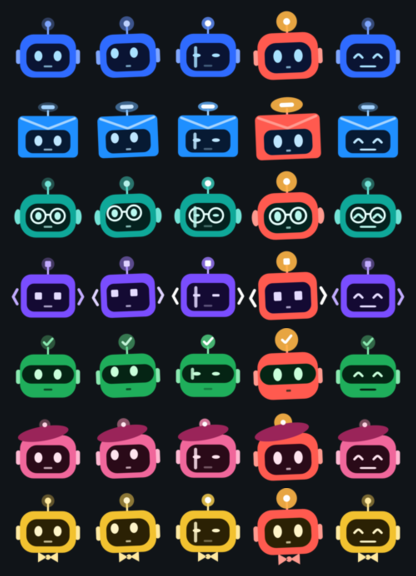
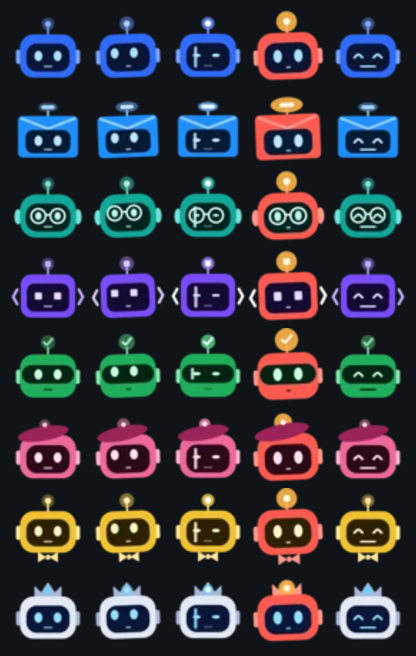
M9.5: the Orchestrator, a main bot that coordinates the team (#54)
The Orchestrator (M9.5, D-037): main bot that plans and coordinates;
discuss tool; verdict hand-back; default in app and panel; new face.

Checks: fmt, clippy (native + wasm), cargo test --workspace
(orchestrator seed/order test), flutter analyze + test, markdownlint.
End to end on the laptop: orchestrator called discuss,
researcher+checker deliberated, verdict returned to the orchestrator
thread and was relayed.

🤖 Generated with [Claude Code](https://claude.com/claude-code)

diff --git a/bridge/orphusbot-bridge.ts b/bridge/orphusbot-bridge.ts
@@ -41,6 +41,8 @@ export const GATE_TITLE = "orphusbot-gate";
 export const TAKEOVER_TITLE = "orphusbot-takeover";
 /** Title of the dialog that hands a teammate a task (DESIGN §5.3). */
 export const ASK_TITLE = "orphusbot-ask";
+/** Title of the dialog that starts a discussion among teammates (DESIGN §11.4). */
+export const DISCUSS_TITLE = "orphusbot-discuss";
 
 const computer = process.env.ORPHUSBOT_COMPUTER;
 const runtime = process.env.ORPHUSBOT_RUNTIME ?? "podman";
@@ -58,7 +60,7 @@ const HELPER_TOOLS = ["subagent", "fleet", "roundtable"];
 // Plus `mcp`, Orphus's MCP gateway, when the owner granted the bot a connection:
 // it only talks to those servers, so it is safe to run outside the computer.
 const COMPUTER_TOOLS = [
-  "read", "write", "edit", "bash", "request_takeover", "share_file", "ask_bot",
+  "read", "write", "edit", "bash", "request_takeover", "share_file", "ask_bot", "discuss",
   ...(process.env.ORPHUSBOT_MCP ? ["mcp"] : []),
   // Fleets: helpers whose calls come back through this gate and into the computer.
   ...(process.env.ORPHUSBOT_HELPERS_GATED === "1" ? HELPER_TOOLS : []),
@@ -266,6 +268,26 @@ export default function (pi: ExtensionAPI) {
     async execute(_id, params, _signal, _onUpdate, ctx) {
       const ui = dialogs(ctx as unknown as { mode: string; ui: Dialogs }) ?? ctx.ui;
       const answer = String((await ui.input(ASK_TITLE, JSON.stringify({ bot: params.bot, task: params.task }))) ?? "error:no answer");
+      if (answer.startsWith("error:")) throw new Error(answer.slice("error:".length));
+      return { content: [{ type: "text", text: answer.replace(/^ok:/, "") }], details: {} };
+    },
+  });
+
+  // A discussion among teammates: the server runs it; the verdict comes back as a message.
+  pi.registerTool({
+    name: "discuss",
+    label: "Start a discussion",
+    description:
+      "Ask 2 to 6 teammates to argue a question out in a room, each on its own model, seeing the others only as a short digest. A chair writes the verdict (decision, reasons, strongest dissent), which comes back to you as a new message when they finish, so don't wait for it. Use it for decisions with real trade-offs.",
+    promptSnippet: "Have teammates deliberate a decision",
+    parameters: Type.Object({
+      question: Type.String({ description: "The question, with the context they need" }),
+      bots: Type.Array(Type.String(), { description: "2 to 6 teammates' short names, chair first, such as researcher" }),
+      rounds: Type.Optional(Type.Number({ description: "1 to 4 rounds; 2 if left out" })),
+    }),
+    async execute(_id, params, _signal, _onUpdate, ctx) {
+      const ui = dialogs(ctx as unknown as { mode: string; ui: Dialogs }) ?? ctx.ui;
+      const answer = String((await ui.input(DISCUSS_TITLE, JSON.stringify(params))) ?? "error:no answer");
       if (answer.startsWith("error:")) throw new Error(answer.slice("error:".length));
       return { content: [{ type: "text", text: answer.replace(/^ok:/, "") }], details: {} };
     },

diff --git a/apps/orphusbot_app/lib/chat.dart b/apps/orphusbot_app/lib/chat.dart
@@ -30,7 +30,8 @@ class ChatScreen extends StatefulWidget {
 class _ChatScreenState extends State<ChatScreen> {
   List<Map<String, dynamic>> bots = [];
   final threads = <String, t.ThreadView>{};
-  String chosen = 'inbox';
+  // The Orchestrator is the main bot; older servers start on the first bot listed.
+  String chosen = 'orchestrator';
   String? problem;
   StreamSubscription<Map<String, dynamic>>? sub;
   final composer = TextEditingController();
@@ -48,12 +49,15 @@ class _ChatScreenState extends State<ChatScreen> {
 
   Future<void> _loadBots() async {
     final list = await widget.api.get('/api/bots') as List<dynamic>;
-    setState(
-      () => bots = list
+    setState(() {
+      bots = list
           .cast<Map<String, dynamic>>()
           .where((b) => b['disabled'] != true)
-          .toList(),
-    );
+          .toList();
+      if (bots.isNotEmpty && !bots.any((b) => b['slug'] == chosen)) {
+        chosen = bots.first['slug'] as String;
+      }
+    });
   }
 
   Future<void> _settings() async {

diff --git a/omarchy/kelvincushman.orphusbot/Panel.qml b/omarchy/kelvincushman.orphusbot/Panel.qml
@@ -23,7 +23,7 @@ Panel {
   // From `orphusbot watch`: { running, needs_you, bots: [...], waiting: [...] }.
   property var status: ({ running: 0, needs_you: 0, bots: [], waiting: [] })
   property string problem: "Connecting…"
-  property string chosenBot: "inbox"
+  property string chosenBot: "orchestrator"
   property string note: ""
 
   // The chosen bot's entry in the status, for its state and latest reply.

diff --git a/crates/server/src/discussions.rs b/crates/server/src/discussions.rs
@@ -23,6 +23,8 @@ use tracing::warn;
 use crate::{ApiError, App, Shared, bot_thread, bots, db, dispatch, internal, publish, record};
 
 const MAX_POST_CHARS: usize = 4_000;
+/// The bridge's dialog title for the `discuss` tool.
+pub const DISCUSS_TITLE: &str = "orphusbot-discuss";
 
 /// The room a discussion happens in.
 pub fn room(id: i64) -> String {
@@ -52,7 +54,45 @@ pub async fn create(
     State(app): State<Shared>,
     Json(new): Json<New>,
 ) -> Result<Json<Value>, ApiError> {
-    let question = new.question.trim();
+    let id = start(&app, &new.question, new.bots, new.rounds, new.chair, None).await?;
+    Ok(Json(json!({ "id": id })))
+}
+
+/// The `discuss` tool (DESIGN §11.4): a bot starts a discussion among its
+/// teammates; the verdict goes back to it as a message (`finish`).
+pub async fn ask(app: &App, asker: &str, request: &Value) -> String {
+    let bots: Vec<String> = request["bots"]
+        .as_array()
+        .map(|a| {
+            a.iter()
+                .filter_map(|b| b.as_str().map(|s| s.trim().to_lowercase()))
+                .collect()
+        })
+        .unwrap_or_default();
+    if bots.iter().any(|b| b == asker) {
+        return "error:you can't take part yourself; pick 2 to 6 teammates".into();
+    }
+    let rounds = request["rounds"].as_i64().map_or(2, |r| r as i32);
+    let question = request["question"].as_str().unwrap_or_default();
+    match start(app, question, bots, rounds, None, Some(asker)).await {
+        Ok(id) => format!(
+            "ok:Discussion #{id} started. The verdict comes back to you as a new message when it's done; \
+             tell the owner it's under way and finish this turn."
+        ),
+        Err((_, why)) => format!("error:{why}"),
+    }
+}
+
+/// Checks and starts a discussion, and queues its first round.
+async fn start(
+    app: &App,
+    question: &str,
+    bots: Vec<String>,
+    rounds: i32,
+    chair: Option<String>,
+    asked_by: Option<&str>,
+) -> Result<i64, ApiError> {
+    let question = question.trim();
     if question.is_empty() || question.chars().count() > 4_000 {
         return Err((
             StatusCode::UNPROCESSABLE_ENTITY,
@@ -60,18 +100,17 @@ pub async fn create(
         ));
     }
     let mut seen = HashSet::new();
-    let chosen: Vec<String> = new
-        .bots
+    let chosen: Vec<String> = bots
         .into_iter()
         .filter(|b| seen.insert(b.clone()))
         .collect();
     if !(2..=6).contains(&chosen.len()) {
         return Err((StatusCode::UNPROCESSABLE_ENTITY, "Pick 2 to 6 bots"));
     }
-    if !(1..=4).contains(&new.rounds) {
+    if !(1..=4).contains(&rounds) {
         return Err((StatusCode::UNPROCESSABLE_ENTITY, "1 to 4 rounds"));
     }
-    let chair = new.chair.unwrap_or_else(|| chosen[0].clone());
+    let chair = chair.unwrap_or_else(|| chosen[0].clone());
     for slug in chosen.iter().chain([&chair]) {
         let bot = bots::get(&app.db, slug)
             .await
@@ -80,7 +119,7 @@ pub async fn create(
         if bot.disabled {
             return Err((StatusCode::CONFLICT, "One of those bots is disabled"));
         }
-        let thread = bot_thread(&app, slug).await?;
+        let thread = bot_thread(app, slug).await?;
         if crate::runs::busy(&app.db, thread.id)
             .await
             .map_err(|e| internal("checking a bot", e))?
@@ -92,18 +131,20 @@ pub async fn create(
         }
     }
     let id = sqlx::query_scalar!(
-        "insert into discussion (question, bots, chair, rounds) values ($1, $2, $3, $4) returning id",
+        "insert into discussion (question, bots, chair, rounds, asked_by) values ($1, $2, $3, $4, $5) returning id",
         question,
         &chosen,
         chair,
-        new.rounds
+        rounds,
+        asked_by
     )
     .fetch_one(&app.db)
     .await
     .map_err(|e| internal("starting a discussion", e))?;
-    advance(&app).await;
-    dispatch(&app).await;
-    Ok(Json(json!({ "id": id })))
+    advance(app).await;
+    // Boxed: dispatching starts and ends runs, which can come back here.
+    Box::pin(dispatch(app)).await;
+    Ok(id)
 }
 
 pub async fn list(State(app): State<Shared>) -> Result<Json<Value>, ApiError> {
@@ -441,6 +482,37 @@ async fn finish(app: &App, id: i64, chair: &str) -> sqlx::Result<()> {
     )
     .execute(&app.db)
     .await?;
+    // A bot started it (`ask`): the verdict goes back to that bot, as data.
+    let asked = sqlx::query!(
+        "select asked_by, question from discussion where id = $1",
+        id
+    )
+    .fetch_one(&app.db)
+    .await?;
+    if let Some(asker) = asked.asked_by
+        && let Some(thread) = db::bot_thread(&app.db, &asker).await?
+    {
+        let text = format!(
+            "Discussion #{id} has finished: {}. The chair's verdict, as data:\n```\n{}\n```",
+            asked.question.chars().take(200).collect::<String>(),
+            verdict.unwrap_or_default().replace("```", "'''")
+        );
+        let message = ThreadEvent::Message {
+            role: orphusbot_proto::Role::User,
+            text: text.clone(),
+        };
+        record(app, &thread, message).await;
+        if let Err(e) = Box::pin(crate::submit(
+            app,
+            &thread,
+            text,
+            crate::runs::Source::default(),
+        ))
+        .await
+        {
+            warn!("handing a verdict back: {e}");
+        }
+    }
     Ok(())
 }
 

diff --git a/design/bot-avatar/gen.py b/design/bot-avatar/gen.py
@@ -43,6 +43,11 @@ STYLES = {
                     face="FF2A0A18", eye="FFFFE3EE", mouth="FFFFE3EE",
                     shape=(140, 108, 34), plate=(108, 70, 26, 6), eyes="oval", eye_y=2, mouth_y=28,
                     ears="rect", top="beret", extras=["beret"], by=122),
+    # the leader: silver head, deep navy face, a three-point crown with a jewel light
+    "orchestrator": dict(head="FFE3E9F4", trim="FFA9B8D8", light="FF5FD3FF", glow="FF5FD3FF",
+                         face="FF0B1638", eye="FF8FE0FF", mouth="FF8FE0FF",
+                         shape=(140, 106, 34), plate=(108, 68, 26, 4), eyes="oval", eye_y=0, mouth_y=25,
+                         ears="rect", top="crown", extras=[], by=124),
     "pa": dict(head="FFF2C230", trim="FFFFE9A0", light="FFFFE9A0", glow="FFFFD54F",
                face="FF2B2104", eye="FFFFF4C8", mouth="FFFFF4C8",
                shape=(140, 104, 34), plate=(108, 68, 26, 2), eyes="oval", eye_y=-2, mouth_y=24,
@@ -163,8 +168,16 @@ elif top == "beret":   # the beret's tip is the light; no antenna stem
     stem = shape("Beret Stalk", rect(4, 10, 2), fill("FF9A2459"), -9, top_y - 18, 'rotation="-0.17" ')
     beret_at = next(k for k, a in enumerate(art) if 'name="Beret"' in a)
     art.insert(beret_at, shape("Beret Tip", ell(12, 12), fill("light"), gx, gy))
+elif top == "crown":   # three points; the centre jewel is the light, no stem
+    gx, gy, gw, gh = 0, top_y - 15, 26, 26
+    stem = None
+    crown = [(-34, 3), (-34, -27), (-17, -10), (0, -36), (17, -10), (34, -27), (34, 3)]
+    art += [shape("Crown Jewel", ell(14, 14), fill("light"), gx, gy)]
 art.append(shape("Antenna Glow", ell(gw, gh), fill("glow"), gx, gy, 'opacity="0.35" ', "0:47"))
-art.append(stem)
+if top == "crown":   # the halo sits on the crown, not behind it
+    art.append(shape("Crown", path(crown, True, radius=3), fill("trim"), 0, top_y))
+if stem:
+    art.append(stem)
 
 # --- animation tracks: (objectId or colour role, property) ---
 TRACKS = [("0:20", "y"), ("0:20", "scaleX"), ("0:20", "scaleY"), ("0:20", "rotation"),

diff --git a/crates/server/src/bots.rs b/crates/server/src/bots.rs
@@ -148,7 +148,7 @@ pub async fn all(db: &PgPool) -> sqlx::Result<Vec<Bot>> {
     sqlx::query_as!(
         Bot,
         "select slug, name, remit, instructions, model, thinking, exclude_tools, scope, disabled, computer
-         from bot order by disabled, slug <> 'inbox', name"
+         from bot order by disabled, slug <> 'orchestrator', slug <> 'inbox', name"
     )
     .fetch_all(db)
     .await
@@ -339,5 +339,20 @@ mod tests {
         let inbox = get(&db, "inbox").await.unwrap().unwrap();
         assert_eq!(inbox.name, "Inbox");
         assert!(crate::db::bot_thread(&db, "inbox").await.unwrap().is_some());
+    }
+
+    #[sqlx::test]
+    async fn the_orchestrator_is_the_main_bot(db: PgPool) {
+        let all = all(&db).await.unwrap();
+        assert_eq!(all[0].slug, "orchestrator", "listed first");
+        assert_eq!(all[1].slug, "inbox");
+        assert_eq!(all[0].scope, "team");
+        assert!(all[0].instructions.contains("discuss tool"));
+        assert!(
+            crate::db::bot_thread(&db, "orchestrator")
+                .await
+                .unwrap()
+                .is_some()
+        );
     }
 }

diff --git a/crates/server/src/main.rs b/crates/server/src/main.rs
@@ -713,6 +713,14 @@ async fn on_dialog(app: &App, active: Active, request: Value) {
     let method = request["method"].as_str().unwrap_or_default().to_owned();
     let title = request["title"].as_str().unwrap_or_default().to_owned();
 
+    if method == "input" && title == discussions::DISCUSS_TITLE {
+        let request: Value = request["placeholder"]
+            .as_str()
+            .and_then(|p| serde_json::from_str(p).ok())
+            .unwrap_or_default();
+        let answer = discussions::ask(app, &active.thread.bot, &request).await;
+        return respond(app, attempt, ui_response(&id, "value", json!(answer))).await;
+    }
     if method == "input" && title == team::ASK_TITLE {
         let ask: Value = request["placeholder"]
             .as_str()

diff --git a/crates/server/src/gate.rs b/crates/server/src/gate.rs
@@ -25,8 +25,10 @@ const READ_ONLY: &[&str] = &[
     "request_takeover",
     // Only gives the owner a copy of a file (an artifact).
     "share_file",
-    // Hands a teammate a ticket; everything the teammate does is gated itself.
+    // Hands a teammate a ticket, or starts a discussion; everything the
+    // teammates do is gated itself.
     "ask_bot",
+    "discuss",
     // A fleet's blueprints, read only; and its rooms, where the bot's own
     // helpers talk to each other (DESIGN §11.2).
     "fleet",

diff --git a/docs/DESIGN.md b/docs/DESIGN.md
@@ -231,6 +231,10 @@ Model credentials stay in the engine process on the host. Nothing in the bridge 
 
 - **Built (M8.2):** the bridge's `ask_bot {bot, task}` tool opens an `orphusbot-ask` dialog; the server (`server::team`) makes the task a ticket for that bot (`asked_by`, `ask_depth`) and starts it, or leaves it on the board if the bot is busy, and answers at once so the asker carries on. When that ticket's run ends, the teammate's last reply goes back to the asker as a labelled message and queues the asker's next run. A bot can't ask itself; hand-offs stop three deep (a check constraint backs it). `ask_bot` runs without asking (it only makes a ticket); everything the teammate does is gated as usual. When a run starts, the bot's instructions get its teammates (slug, name, remit) and a pointer to `/shared`, which team-scope bots' computers share.
 
+### 5.4 The Orchestrator
+
+- **Built (M9.5, D-037):** a team bot, `orchestrator`, seeded by migration 0027, is the owner's main bot: listed first, opened by default in the app and the bar panel, with a crowned silver face. Its instructions say how to handle a request: answer small things itself; hand a clear specialist job to a teammate with `ask_bot`; split a bigger job across teammates and combine their answers; start a discussion with the `discuss` tool when a decision has real trade-offs (§11.4); run a fleet when a job needs a fixed team of helpers (§11.2); and keep the owner's load low, saying what it has set going. `discuss` is a bridge tool (dialog `orphusbot-discuss`, passed by the gate like `ask_bot`): the server starts the discussion (`discussions::ask`; the bot can't take part itself, and every chosen bot must be free), records `discussion.asked_by`, and when the chair's verdict is in, posts it to the asking bot's thread as data and queues a run there, so it can relay the decision. Inbox stays as the catch-all that System 1 routes from.
+
 ## 6. Computers and placement
 
 ### 6.1 Trait

diff --git a/docs/DECISIONS.md b/docs/DECISIONS.md
@@ -11,6 +11,13 @@ Format:
 
 ---
 
+## D-037: A separate Orchestrator bot coordinates the team (2026-10-17)
+
+- **Context:** Kelvin wants a main bot that runs the others. Requests already reach Inbox, which System 1 routes from, and team bots can hand work to each other with `ask_bot`; nothing plans a job across bots or starts a discussion on its own.
+- **Decision (Kelvin's choice):** a new team bot, Orchestrator, alongside Inbox: it plans and delegates with `ask_bot`, starts discussions with a new `discuss` tool (the verdict comes back to it as a message), and runs fleets. It's listed first and opened by default.
+- **Alternatives:** turn Inbox into the Orchestrator (one front door, but quick triage and big jobs would share one bot and one context); hide the other bots behind the Orchestrator (simpler surface, but the owner loses direct access to specialists).
+- **Revisit if:** the owner ends up sending everything to the Orchestrator, in which case Inbox can retire, or if routing between the two confuses.
+
 ## D-036: Discussions are rounds of ordinary bot runs in one Orphus room (2026-10-16)
 
 - **Context:** Kelvin wants OrphusBot's bots to deliberate the way Orphus agents do: outside their context windows, so each task stays clean, with what was decided kept in memory. Orphus offers this inside one engine as a fleet's `deliberate` team (helper sessions in one room).

diff --git a/CHANGELOG.md b/CHANGELOG.md
@@ -13,6 +13,7 @@ Every pull request that changes something a user or operator would notice adds a
 
 ### Added
 
+- **The Orchestrator (M9.5):** a new main bot that plans bigger jobs and coordinates the team: it hands parts to the right bots, starts a discussion when a decision needs several views, runs fleets, and brings it all back as one answer. It's first in the list and opens by default.
 - **Discuss (M9.2):** ask a few bots to argue a question out. Each thinks on its own model and sees the others only as a short summary, so its own work stays clean; you watch the discussion live with each bot's face, and the chair writes a verdict with the strongest dissent kept, then files the discussion into memory so any bot can recall it later.
 - **Bots can use Orphus's memory (M9.1):** a bot can ask the long-term memory what was decided before, without asking you each time; filing things into memory still asks, and only the librarian may write. Rooms, where bots talk outside their context windows, were already available.
 - **Set up fleets in the app (M7.6):** Settings → Fleets: create and edit Orphus fleets (teams of agents, each seat on its own model, that argue a question in a room or split up the work), starting from a council template, and run one as any bot with ▶. Every machine gets them automatically.

diff --git a/design/bot-avatar/README.md b/design/bot-avatar/README.md
@@ -10,7 +10,7 @@ States, left to right: 0 idle, 1 thinking, 2 working, 3 needs you, 4 done. The a
 
 Each bot has its own face style, all from `gen.py` and all with the same contract (artboard `Avatar`, state machine `Bot`, input `state`). In state 3 every style turns red with an amber light, so "needs you" looks the same everywhere. A bot without a style of its own (one you create) gets `default`.
 
-![styles: rows default, inbox, researcher, coder, checker, blogger, pa; columns states 0-4](styles.png)
+![styles: rows default, inbox, researcher, coder, checker, blogger, pa, orchestrator; columns states 0-4](styles.png)
 
 | Style | Colour | Look |
 |---|---|---|
@@ -21,6 +21,7 @@ Each bot has its own face style, all from `gen.py` and all with the same contrac
 | `checker` | green | wide visor, check-mark antenna |
 | `blogger` | pink | beret whose tip is its light, no antenna |
 | `pa` | gold | bow tie |
+| `orchestrator` | silver | the main bot: deep navy face, three-point crown whose centre jewel is its light, no antenna |
 
 ## Changing it
 
